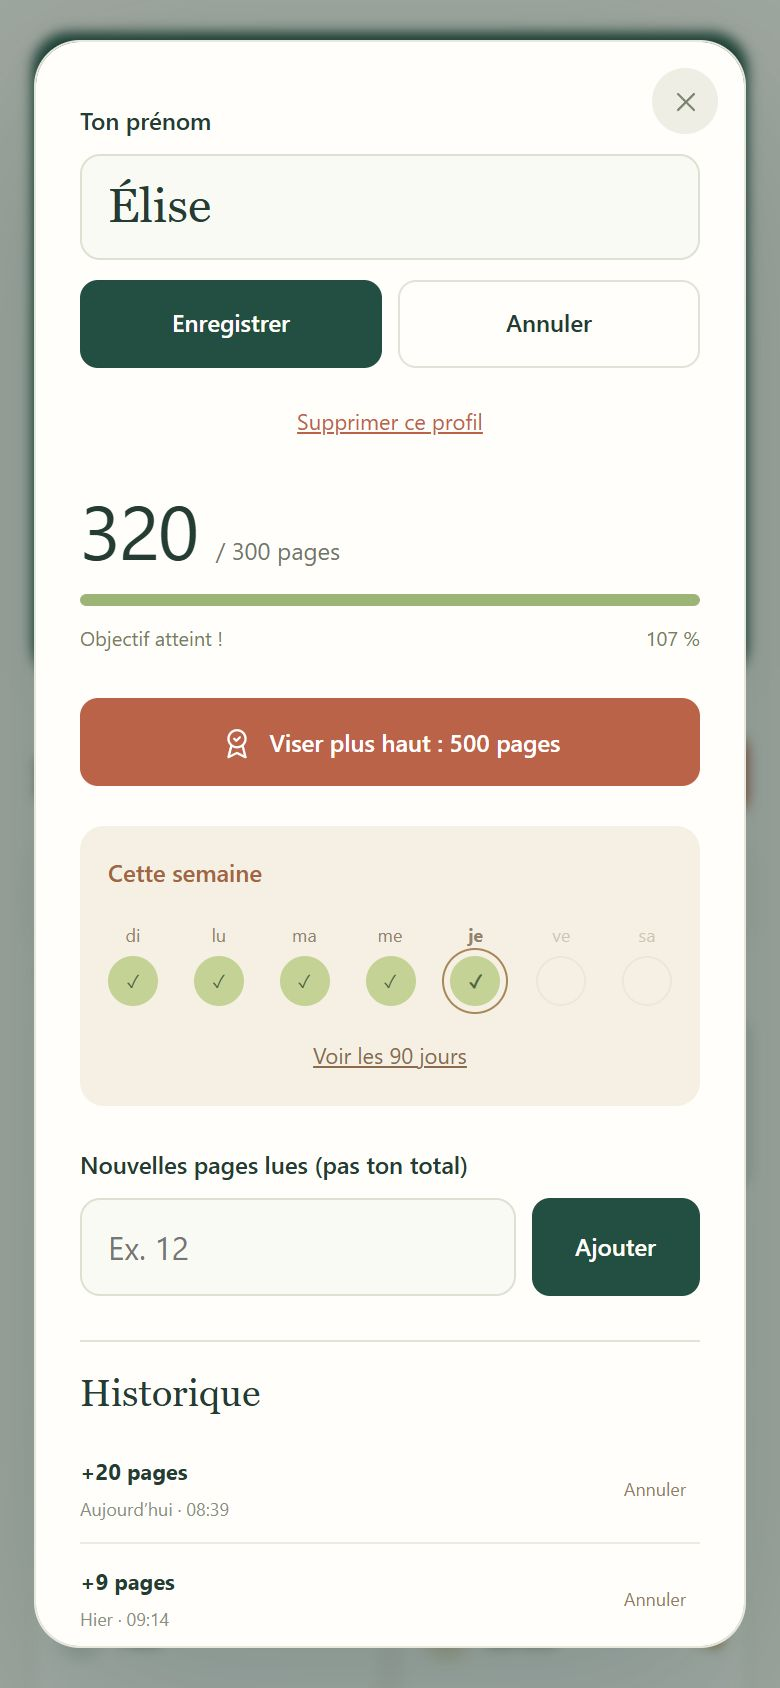
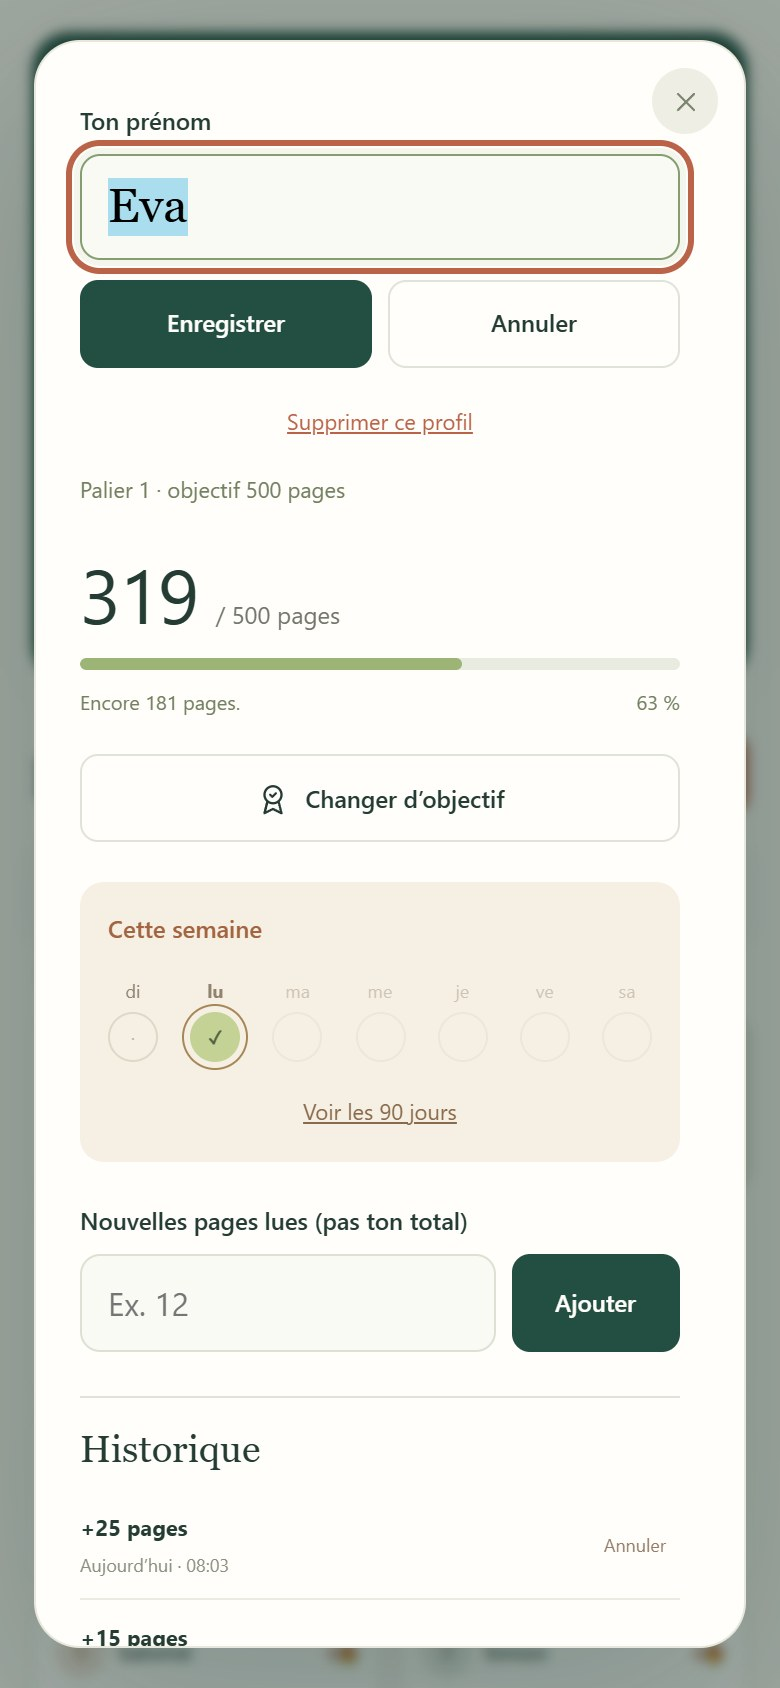
Barres de défilement discrètes et captures du README à jour
- style.css : barres fines aux couleurs du site (page, dialogues, graphique), dialogue
  défilant dans un conteneur interne détaché des coins arrondis, bouton Fermer toujours visible
- README : captures sans prénoms réels ; remplacement des captures obsolètes (palier 3 000,
  « Viser plus haut ») par medailles.jpg et compteur-20000.jpg ; avant-depart, profil et
  modifier-profil refaites

diff --git a/public/style.css b/public/style.css
@@ -191,6 +191,8 @@
   --line: #e0e3d7;
   --terra: #ba6349;
   --peach: #f0ddc8;
+  --scroll-thumb: #bac4ac;
+  --scroll-thumb-hover: #8c9d7c;
   --serif: Georgia, 'Times New Roman', serif;
   --sans: Inter, -apple-system, BlinkMacSystemFont, 'Segoe UI', sans-serif;
 }
@@ -199,6 +201,41 @@
 }
 html {
   scroll-behavior: smooth;
+}
+/* Barres de défilement discrètes (ordinateur ; sur téléphone elles flottent déjà). */
+@supports not selector(::-webkit-scrollbar) {
+  * {
+    scrollbar-width: thin;
+    scrollbar-color: var(--scroll-thumb) transparent;
+  }
+  html {
+    scrollbar-color: var(--scroll-thumb) var(--paper);
+  }
+}
+::-webkit-scrollbar {
+  width: 10px;
+  height: 10px;
+  background: transparent;
+}
+::-webkit-scrollbar-track,
+::-webkit-scrollbar-corner {
+  background: transparent;
+}
+::-webkit-scrollbar-thumb {
+  min-height: 40px;
+  min-width: 40px;
+  border: 2px solid transparent;
+  border-radius: 999px;
+  background: var(--scroll-thumb) padding-box;
+}
+::-webkit-scrollbar-thumb:hover {
+  background: var(--scroll-thumb-hover) padding-box;
+}
+html::-webkit-scrollbar {
+  width: 12px;
+}
+html::-webkit-scrollbar-track {
+  background: var(--paper);
 }
 body {
   margin: 0;
@@ -1093,22 +1130,38 @@ dialog {
   padding: 0;
   width: min(445px, calc(100% - 26px));
   max-height: calc(100dvh - 40px);
-  overflow: auto;
+  overflow: hidden;
   color: var(--ink);
   background: var(--white);
   box-shadow: 0 30px 100px #173d3438;
+}
+dialog:not(#confirm) {
+  overscroll-behavior: contain;
+}
+#confirm {
+  overflow: auto;
+}
+#dialog[open] {
+  display: flex;
+  flex-direction: column;
 }
 dialog::backdrop {
   background: #172d2566;
   backdrop-filter: blur(3px);
 }
 #dialog-body {
+  flex: 1 1 auto;
+  min-height: 0;
+  overflow-y: auto;
+  overscroll-behavior: contain;
+  scrollbar-gutter: stable;
   padding: 29px;
 }
 .dialog-close {
   position: absolute;
   right: 13px;
   top: 13px;
+  z-index: 2;
   width: 33px;
   height: 33px;
   display: grid;
@@ -2292,7 +2345,6 @@ dialog.dialog-full #dialog-body {
 .chart-scroll {
   overflow-x: auto;
   flex: 1;
-  scrollbar-width: thin;
 }
 .chart .grid {
   stroke: var(--line);
@@ -2693,4 +2745,23 @@ circle.line-yesterday {
 .range-sheet.rc-open {
   left: 0;
   right: 0;
+}
+/* Ordinateur : la barre du dialogue est détachée des bords arrondis de la carte. */
+@media (hover: hover) and (pointer: fine) {
+  #dialog-body {
+    margin: 12px 4px 12px 0;
+    padding: 17px 25px 17px 29px;
+  }
+  dialog.dialog-full #dialog-body {
+    margin: 8px 4px 8px 0;
+    padding: 14px 10px 20px 14px;
+  }
+  #dialog-body::-webkit-scrollbar-track {
+    margin-block: 6px;
+  }
+}
+@media (hover: hover) and (pointer: fine) and (max-width: 580px) {
+  #dialog-body {
+    padding: 14px 18px 14px 22px;
+  }
 }

diff --git a/README.md b/README.md
@@ -3,15 +3,15 @@
 Le défi lecture de l'église : **90 jours** (27 septembre → 25 décembre 2026), **20 000 pages** à lire ensemble,
 chacun à son rythme. En ligne : **https://defi-lecture.vercel.app**
 
-|                                  Avant le départ                                   |                                       Pendant le défi                                       |                                       Profil d'un lecteur                                        |
-| :--------------------------------------------------------------------------------: | :-----------------------------------------------------------------------------------------: | :----------------------------------------------------------------------------------------------: |
-| <img src="docs/avant-depart.jpg" width="250" alt="Page d'accueil avant le départ"> | <img src="docs/pendant-le-defi.jpg" width="250" alt="Compteur et lecteurs pendant le défi"> | <img src="docs/profil.jpg" width="250" alt="Profil avec la série et le calendrier des 90 jours"> |
+|                                  Avant le départ                                   |                                                  Compteur de 20 000 pages                                                  |                                                   Profil d'un lecteur                                                    |
+| :--------------------------------------------------------------------------------: | :------------------------------------------------------------------------------------------------------------------------: | :----------------------------------------------------------------------------------------------------------------------: |
+| <img src="docs/avant-depart.jpg" width="250" alt="Page d'accueil avant le départ"> | <img src="docs/compteur-20000.jpg" width="250" alt="Compteur commun à 3 826 pages sur 20 000, avec les premiers lecteurs"> | <img src="docs/profil.jpg" width="250" alt="Profil avec le palier, la médaille, la série et le calendrier des 90 jours"> |
 
-**Aller plus loin**
+**Médailles et objectifs**
 
-|                                              Palier 3 000 atteint                                               |                                                         Viser plus haut                                                          |                                                              Nouvel objectif                                                              |
-| :-------------------------------------------------------------------------------------------------------------: | :------------------------------------------------------------------------------------------------------------------------------: | :---------------------------------------------------------------------------------------------------------------------------------------: |
-| <img src="docs/palier-commun.jpg" width="250" alt="Compteur à 3 453 pages sur 4 000, palier des 3 000 atteint"> | <img src="docs/viser-plus-haut.jpg" width="250" alt="Profil d'une lectrice à 320 pages sur 300, avec le bouton Viser plus haut"> | <img src="docs/nouvel-objectif.jpg" width="250" alt="Le même profil avec son nouvel objectif de 500 pages et le message de confirmation"> |
+|                                                                       Médailles et « Changer d'objectif »                                                                       |
+| :-----------------------------------------------------------------------------------------------------------------------------------------------------------------------------: |
+| <img src="docs/medailles.jpg" width="250" alt="Profil d'une lectrice avec une médaille d'or, d'argent et de bronze, et les trois objectifs de 100, 300 et 500 pages à choisir"> |
 
 **Son profil**
 
